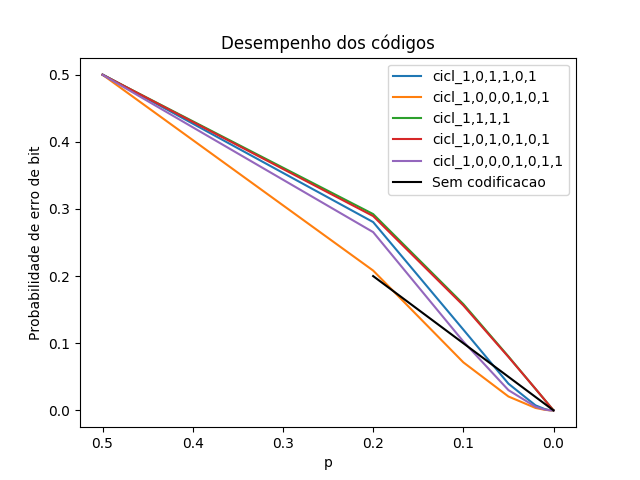
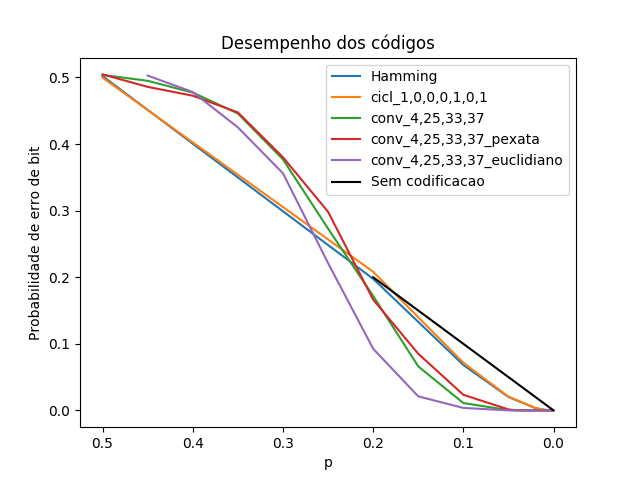
conserta comparacao

diff --git a/geraGrafico.py b/geraGrafico.py
@@ -5,11 +5,11 @@ import os
 
 grafico = Grafico.Grafico()
 
-arquivos = os.listdir("Dados/ciclico")
-for arquivo in arquivos:
-    dado = DadosGrafico.DadosGrafico()
-    dado.dadosDeArquivo("Dados/ciclico/"+arquivo)
-    grafico.adicionaDados(dado, "")
+# arquivos = os.listdir("Dados/ciclico")
+# for arquivo in arquivos:
+#     dado = DadosGrafico.DadosGrafico()
+#     dado.dadosDeArquivo("Dados/ciclico/"+arquivo)
+#     grafico.adicionaDados(dado, "")
 
 # arquivos = os.listdir("Dados/linear")
 # for arquivo in arquivos:
@@ -23,17 +23,17 @@ for arquivo in arquivos:
 #     dado.dadosDeArquivo("Dados/convolucional/"+arquivo)
 #     grafico.adicionaDados(dado, "")
 
-# dado = DadosGrafico.DadosGrafico()
-# dado.dadosDeArquivo('Dados/linear/hamming.txt')
-# grafico.adicionaDados(dado, "")
-# dado.dadosDeArquivo('Dados/ciclico/cicl_1,0,0,0,1,0,1.txt')
-# grafico.adicionaDados(dado, "")
-# dado.dadosDeArquivo('Dados/convolucional/conv_4,25,33,37.txt')
-# grafico.adicionaDados(dado, "")
-# dado.dadosDeArquivo('Dados/convolucional/conv_4,25,33,37_pexata.txt')
-# grafico.adicionaDados(dado, "")
-# dado.dadosDeArquivo('Dados/convolucional/conv_4,25,33,37_euclidiano.txt')
-# grafico.adicionaDados(dado, "")
+dado = DadosGrafico.DadosGrafico()
+dado.dadosDeArquivo('Dados/linear/hamming.txt')
+grafico.adicionaDados(dado, "")
+dado.dadosDeArquivo('Dados/ciclico/cicl_1,0,0,0,1,0,1.txt')
+grafico.adicionaDados(dado, "")
+dado.dadosDeArquivo('Dados/convolucional/conv_4,25,33,37.txt')
+grafico.adicionaDados(dado, "")
+dado.dadosDeArquivo('Dados/convolucional/conv_4,25,33,37_pexata.txt')
+grafico.adicionaDados(dado, "")
+dado.dadosDeArquivo('Dados/convolucional/conv_4,25,33,37_euclidiano.txt')
+grafico.adicionaDados(dado, "")
 
 
 
